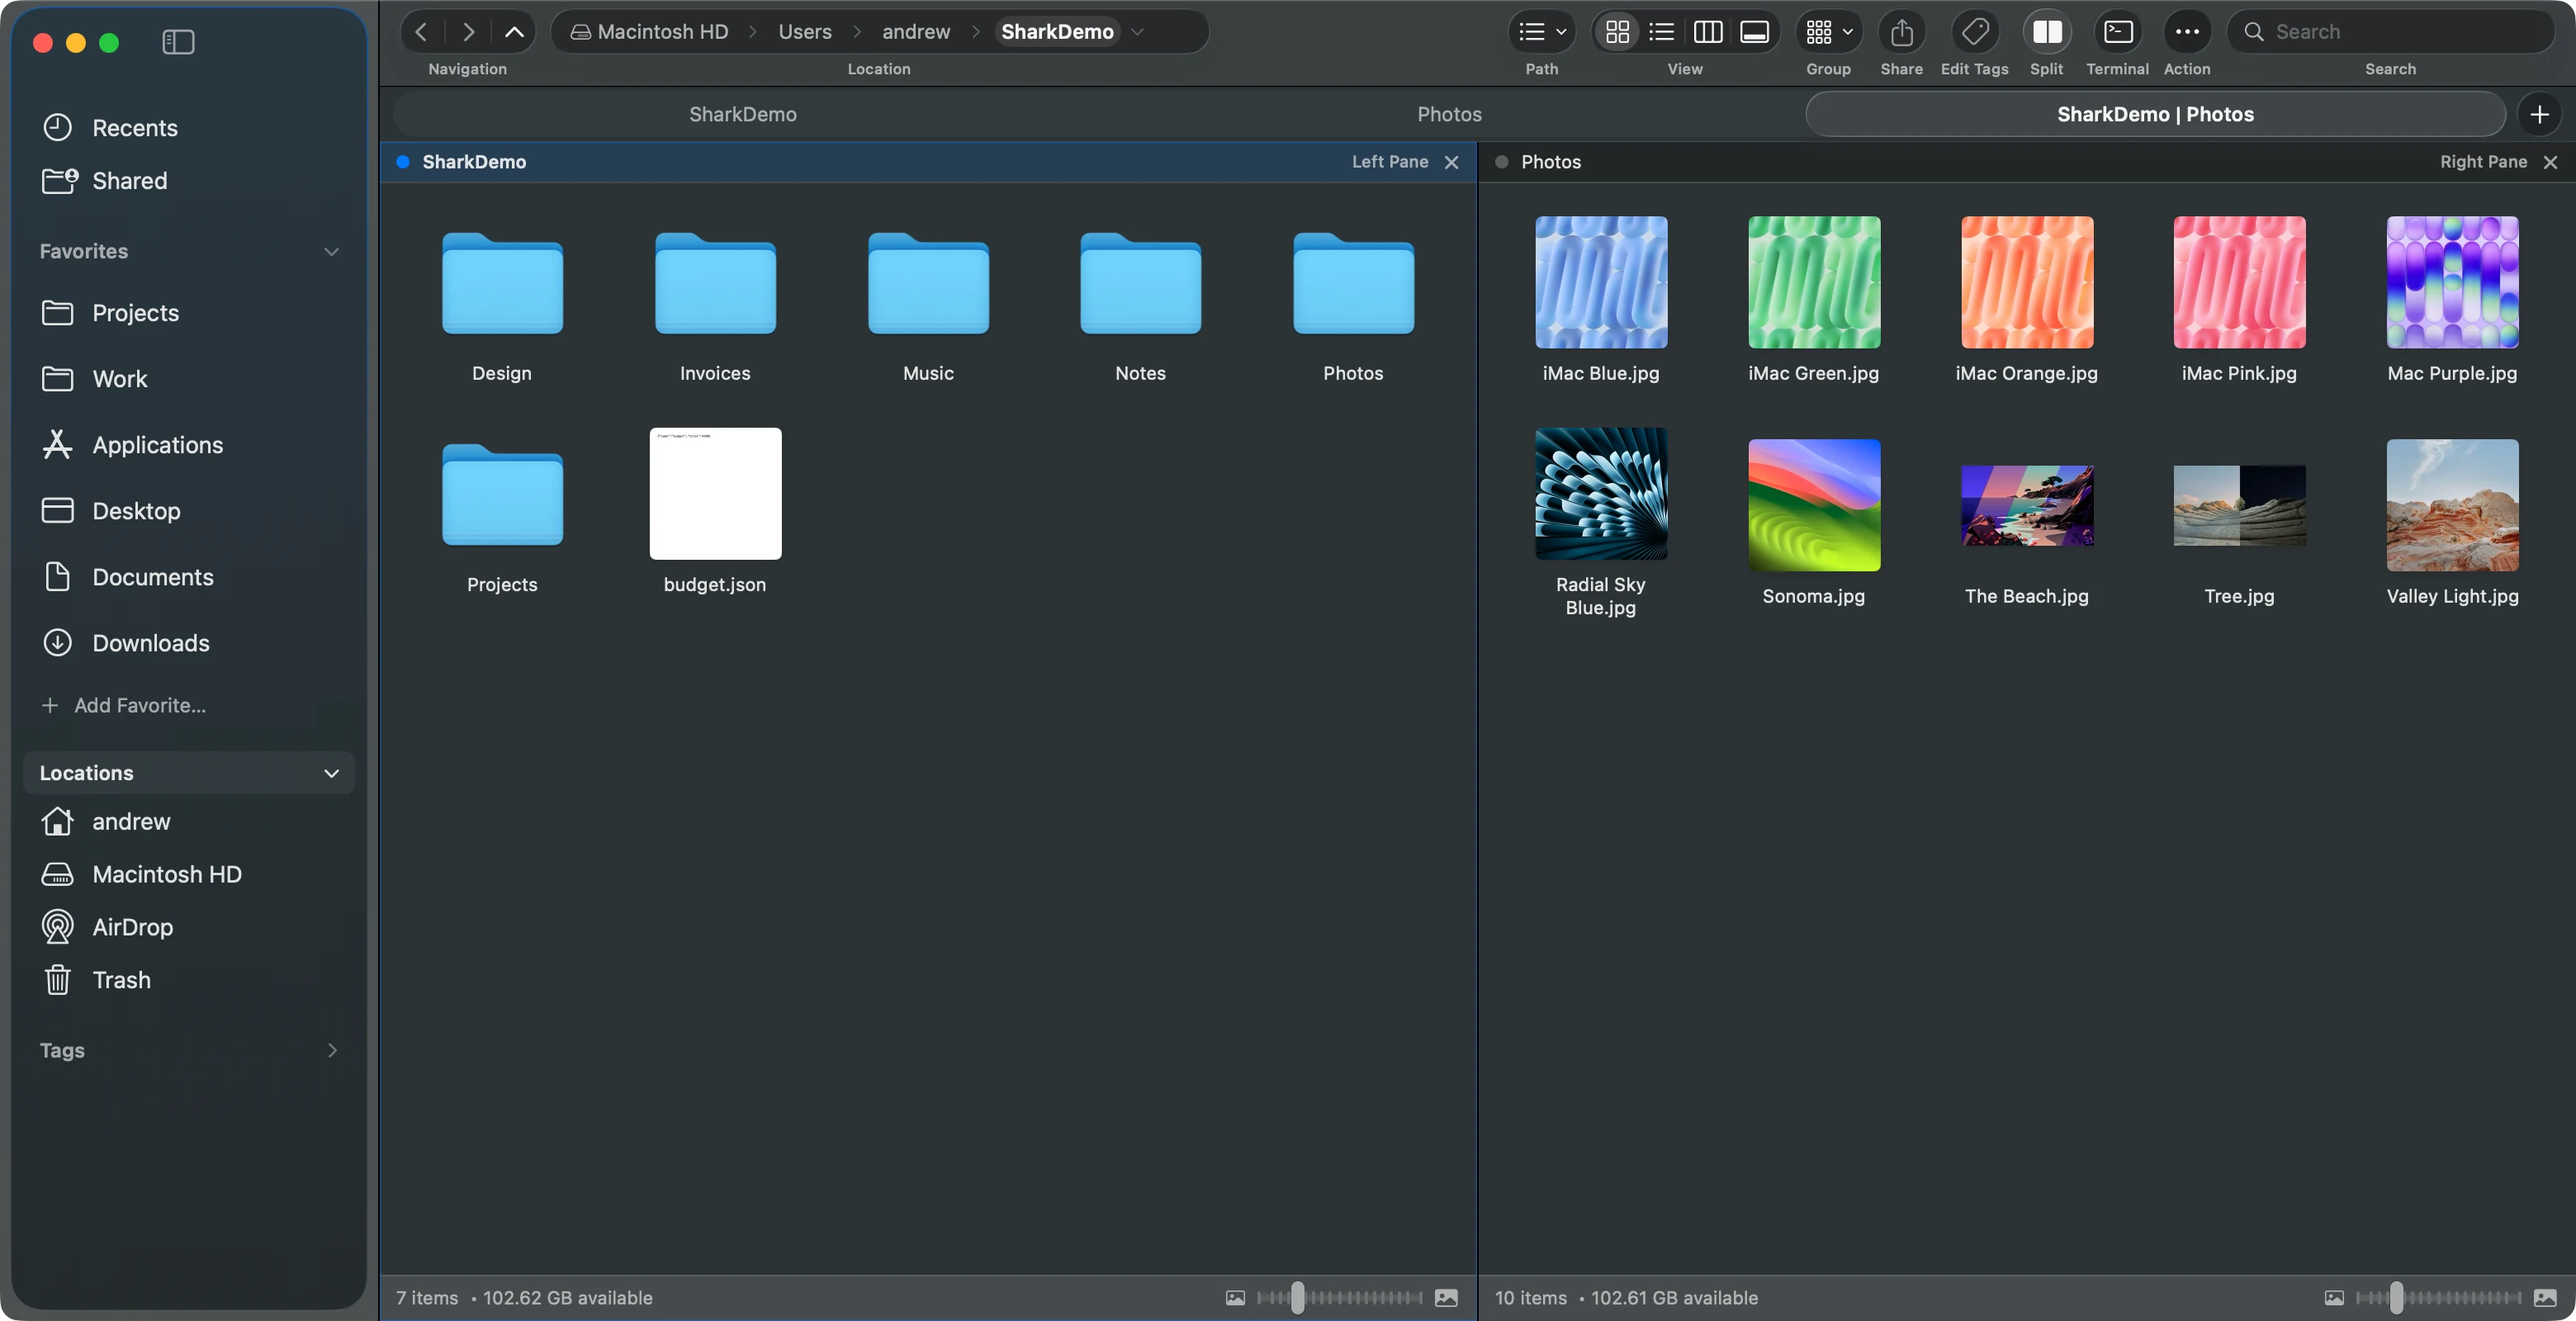
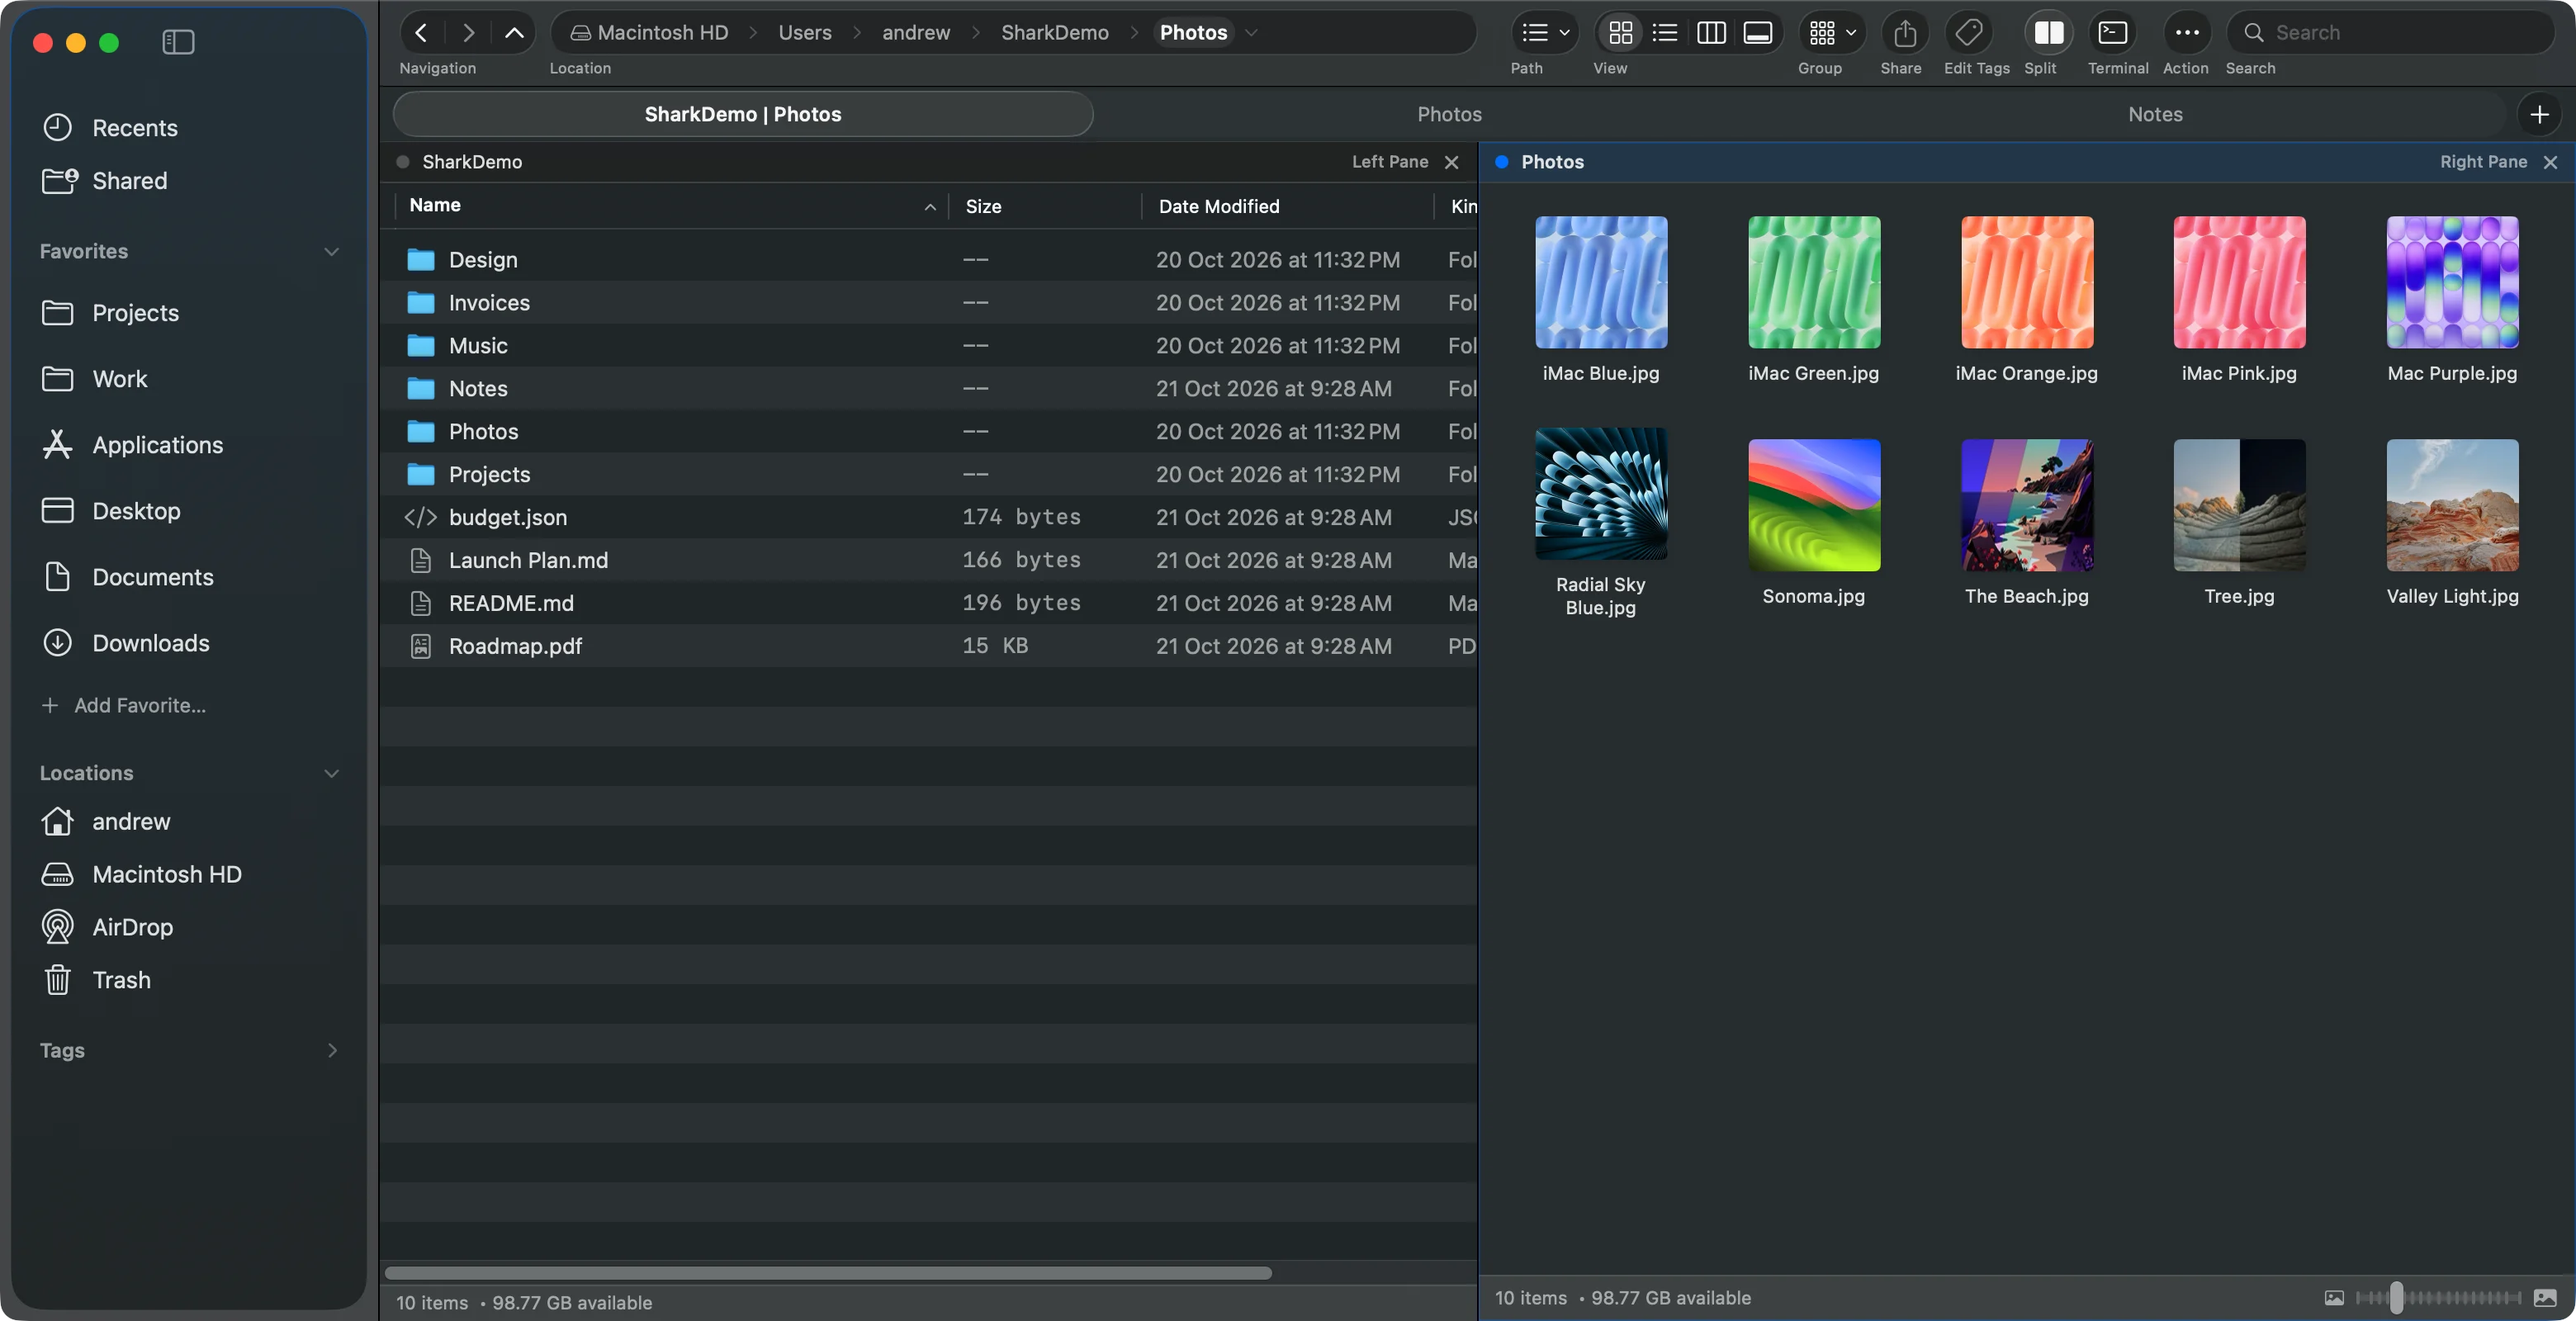
feat(website): link latest DMG and add Mac App Store coming-soon button

diff --git a/website/src/styles/global.css b/website/src/styles/global.css
@@ -40,6 +40,9 @@
   .button-primary { color: white; background: #0069d4; box-shadow: inset 0 1px 1px #ffffff6b, inset 0 -1px 1px #00479d4d, 0 5px 12px #0879e71f; }
   .button-primary:hover { background: #0067cf; transform: translateY(-2px); box-shadow: inset 0 1px 1px #ffffff6b, 0 7px 18px #0879e72b; }
   .button-primary:active { transform: translateY(0); }
+  .button-store { color: inherit; background: transparent; box-shadow: inset 0 0 0 1px currentColor; opacity: .85; }
+  .button-store:hover { opacity: 1; transform: translateY(-2px); }
+  .button-store small { font-size: 11px; font-weight: 600; padding: 2px 8px; border-radius: 999px; background: #0069d41f; color: #0069d4; }
   .button-compact { min-height: 40px; padding: 10px 17px; font-size: 13px; gap: 7px; }
   .text-link { display: inline-flex; gap: 9px; align-items: center; color: #1768b8; font-size: 14px; font-weight: 500; text-underline-offset: 5px; }
   .text-link:hover { text-decoration: underline; }
@@ -100,7 +103,8 @@
   .closing > img { margin: 0 auto 26px; }
   .closing h2 { font-size: clamp(40px, 5vw, 60px); }
   .closing > p:not(.compatibility) { color: var(--secondary); font-size: 17px; margin-top: 20px; }
-  .closing .button { margin-top: 27px; }
+  .cta-row { display: flex; flex-wrap: wrap; justify-content: center; gap: 14px; }
+  .closing .cta-row { margin-top: 27px; }
   .footer { display: flex; align-items: center; gap: 26px; padding-block: 28px 35px; border-top: 1px solid var(--line); }
   .footer .brand { font-size: 16px; gap: 6px; }
   .footer p, .footer > div { font-size: 12px; color: var(--secondary); }

diff --git a/README.md b/README.md
@@ -49,6 +49,10 @@ brew tap andronasef/shark
 brew install --cask shark
 ```
 
+### Mac App Store (coming soon)
+
+[Download Shark on the Mac App Store](https://apps.apple.com/us/app/shark-better-finder/id6825086341) — coming soon.
+
 ### Direct download
 
 Once a release is published, download `Shark-<version>.dmg` from this repository's **Releases** page, open it, and drag **Shark.app** onto **Applications**. Public downloads built by the release action are Developer ID signed and notarized by Apple.
